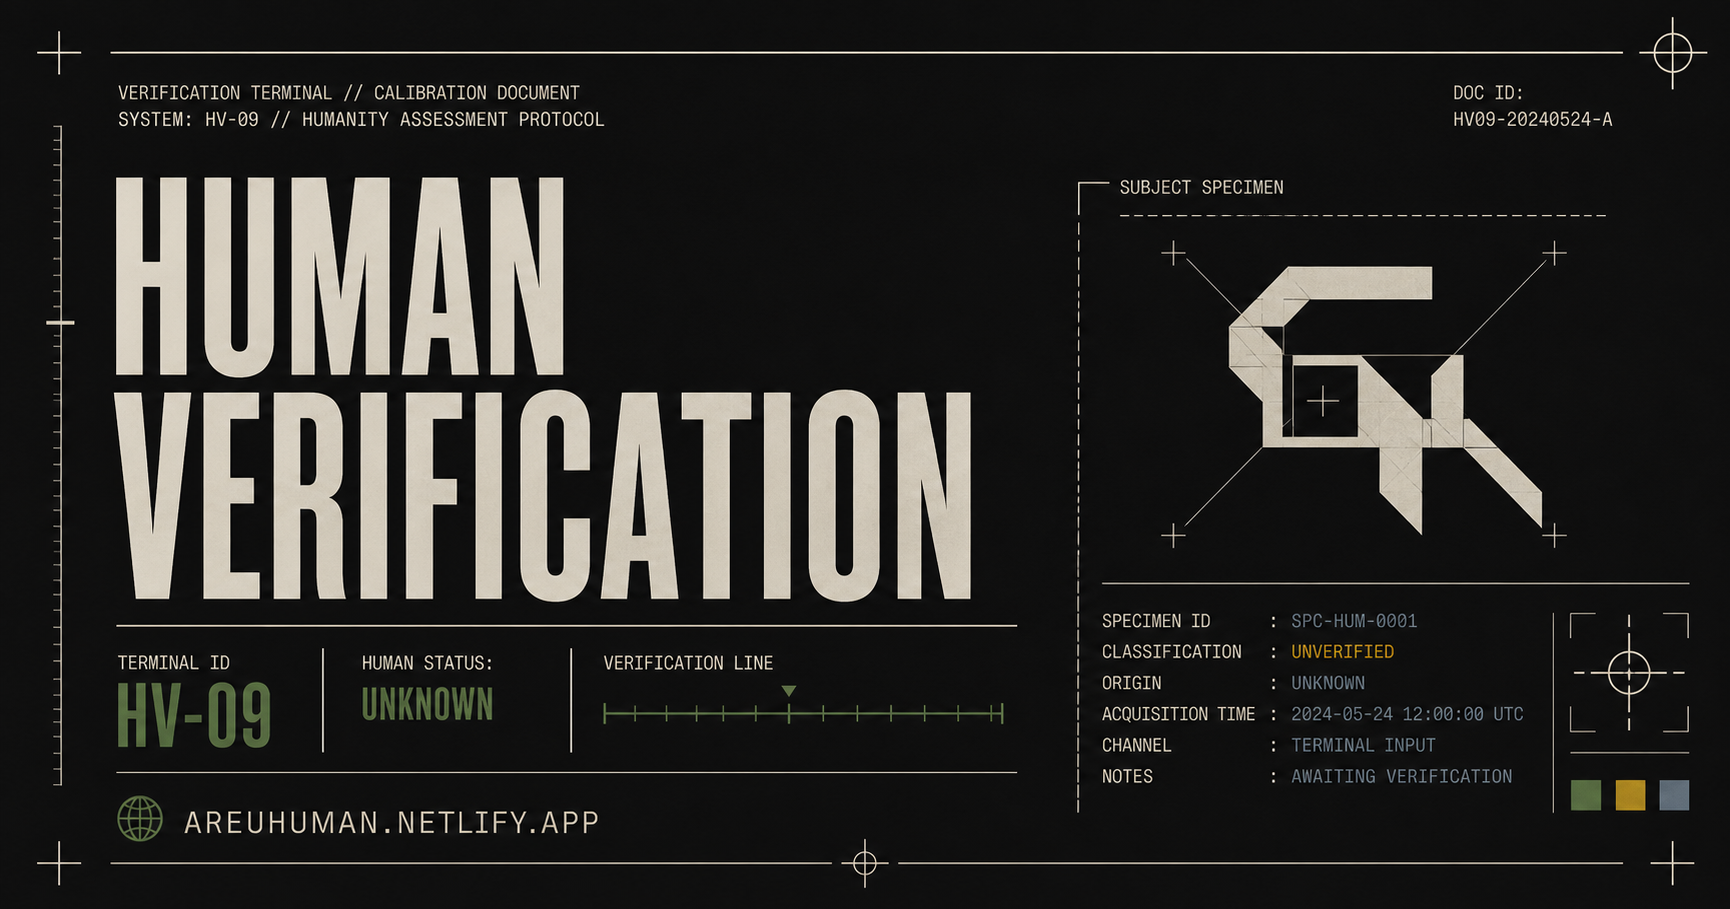
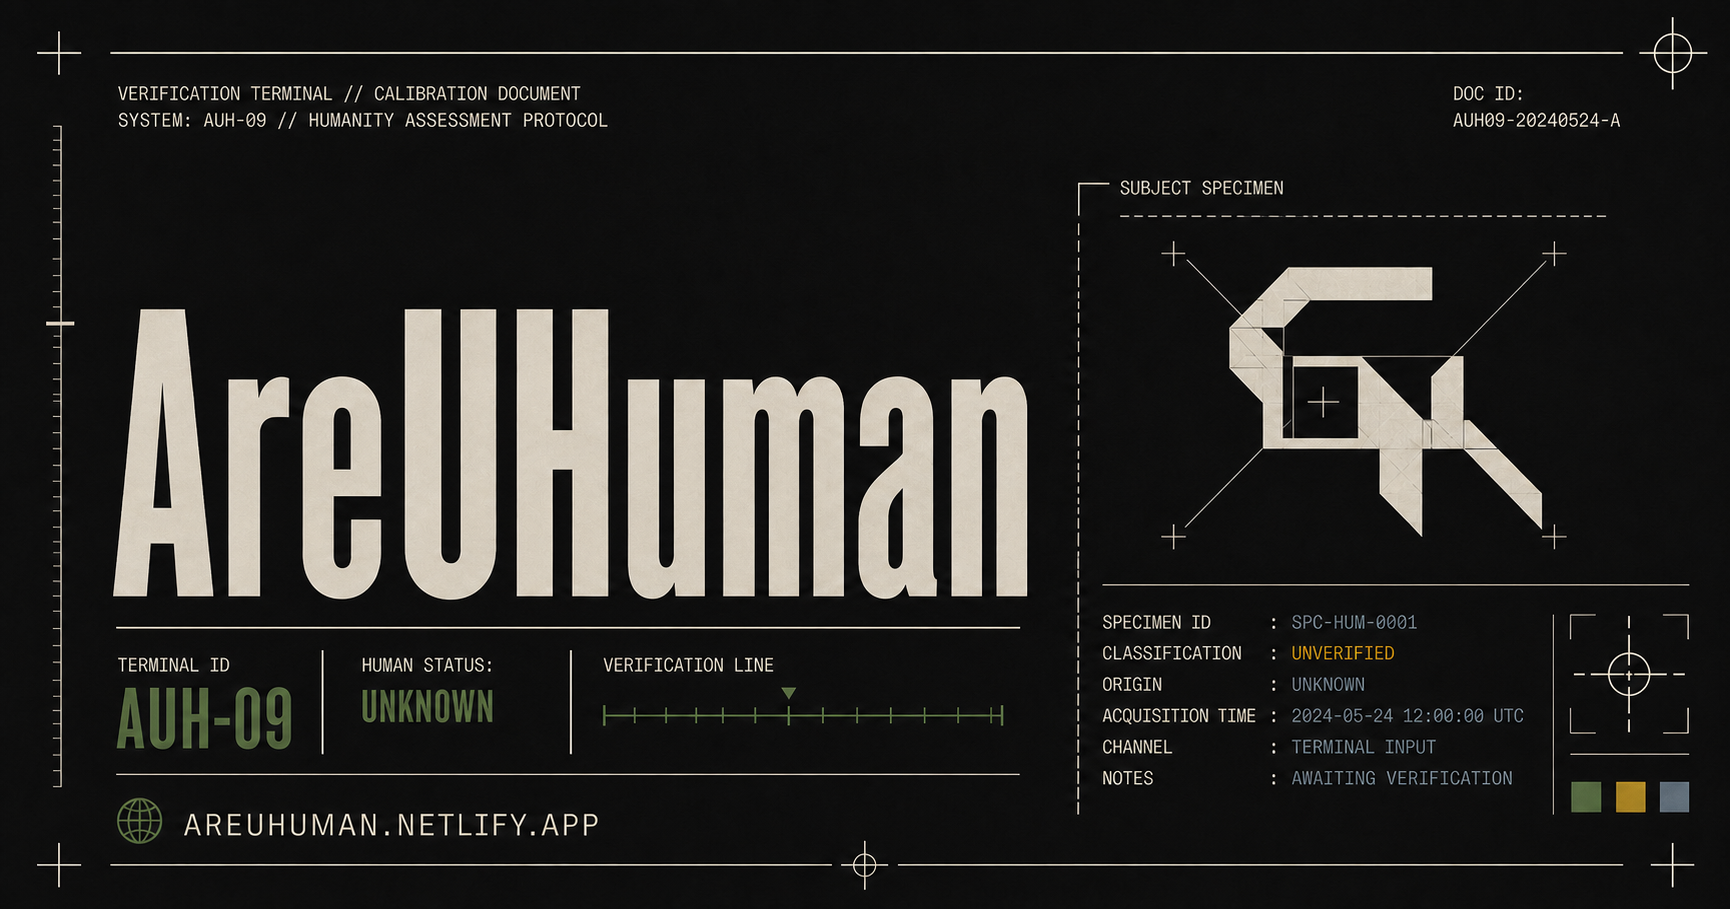
Rebrand game as AreUHuman

diff --git a/src/storage/store.ts b/src/storage/store.ts
@@ -1,7 +1,8 @@
 import { DEFAULT_SETTINGS } from '../game/config'
 import type { ChallengeMetrics, ChallengeResult, ChallengeStats, GameSettings, LeaderboardEntry, PersistedData, PrizeTier, ScoreBand, SessionPerformance } from '../game/types'
 
-const STORAGE_KEY = 'human-verification:data:v1'
+const STORAGE_KEY = 'are-u-human:data:v1'
+const PREVIOUS_STORAGE_KEY = 'human-verification:data:v1'
 const LEGACY_STORAGE_KEY = 'touch-test-99:data:v1'
 
 type UnknownRecord = Record<string, unknown>
@@ -64,7 +65,7 @@ export function normalizeSettings(value: unknown): GameSettings {
   const rawPin = typeof source.adminPin === 'string' || typeof source.adminPin === 'number' ? String(source.adminPin) : DEFAULT_SETTINGS.adminPin
   const adminPin = rawPin.replace(/\D/g, '').slice(0, 8) || DEFAULT_SETTINGS.adminPin
   return {
-    title: title === 'TOUCH TEST: 99%' ? DEFAULT_SETTINGS.title : title,
+    title: title === 'TOUCH TEST: 99%' || title === 'HUMAN VERIFICATION' ? DEFAULT_SETTINGS.title : title,
     tagline: stringValue(source.tagline, DEFAULT_SETTINGS.tagline, 80),
     smallCopy: stringValue(source.smallCopy, DEFAULT_SETTINGS.smallCopy, 80),
     gameEnabled: booleanValue(source.gameEnabled, DEFAULT_SETTINGS.gameEnabled),
@@ -113,7 +114,7 @@ export function createDefaultData(): PersistedData {
 
 export function loadData(): PersistedData {
   try {
-    const raw = localStorage.getItem(STORAGE_KEY) ?? localStorage.getItem(LEGACY_STORAGE_KEY)
+    const raw = localStorage.getItem(STORAGE_KEY) ?? localStorage.getItem(PREVIOUS_STORAGE_KEY) ?? localStorage.getItem(LEGACY_STORAGE_KEY)
     if (!raw) return createDefaultData()
     const parsed = JSON.parse(raw) as Partial<PersistedData>
     if (parsed.version !== 1) return createDefaultData()
@@ -132,6 +133,7 @@ export function loadData(): PersistedData {
 export function saveData(data: PersistedData): void {
   try {
     localStorage.setItem(STORAGE_KEY, JSON.stringify(data))
+    localStorage.removeItem(PREVIOUS_STORAGE_KEY)
     localStorage.removeItem(LEGACY_STORAGE_KEY)
   } catch {
     // A full storage quota must never interrupt a live carnival run.
@@ -198,6 +200,7 @@ export function resetSession(maxLives: number, seed = Date.now()): SessionPerfor
 
 export function clearStorage(): void {
   localStorage.removeItem(STORAGE_KEY)
+  localStorage.removeItem(PREVIOUS_STORAGE_KEY)
   localStorage.removeItem(LEGACY_STORAGE_KEY)
 }
 
@@ -214,4 +217,4 @@ function normalizeChallengeStats(value?: Partial<ChallengeStats>): ChallengeStat
   }
 }
 
-export { LEGACY_STORAGE_KEY, STORAGE_KEY }
+export { LEGACY_STORAGE_KEY, PREVIOUS_STORAGE_KEY, STORAGE_KEY }

diff --git a/src/tests/storage.test.ts b/src/tests/storage.test.ts
@@ -1,5 +1,5 @@
 import { describe, expect, it } from 'vitest'
-import { createDefaultData, LEGACY_STORAGE_KEY, loadData, recordChallenge, resetSession, saveData, sortLeaderboard, todayEntries } from '../storage/store'
+import { createDefaultData, LEGACY_STORAGE_KEY, loadData, PREVIOUS_STORAGE_KEY, recordChallenge, resetSession, saveData, sortLeaderboard, STORAGE_KEY, todayEntries } from '../storage/store'
 
 describe('versioned local persistence', () => {
   it('round-trips operator configuration', () => {
@@ -10,8 +10,8 @@ describe('versioned local persistence', () => {
   })
 
   it('recovers safely from malformed storage', () => {
-    localStorage.setItem('human-verification:data:v1', '{broken')
-    expect(loadData().settings.title).toBe('HUMAN VERIFICATION')
+    localStorage.setItem(STORAGE_KEY, '{broken')
+    expect(loadData().settings.title).toBe('AreUHuman')
   })
 
   it('migrates legacy scores and the former default title', () => {
@@ -19,7 +19,15 @@ describe('versioned local persistence', () => {
     legacy.settings.title = 'TOUCH TEST: 99%'
     legacy.totalPlays = 12
     localStorage.setItem(LEGACY_STORAGE_KEY, JSON.stringify(legacy))
-    expect(loadData()).toMatchObject({ totalPlays: 12, settings: { title: 'HUMAN VERIFICATION' } })
+    expect(loadData()).toMatchObject({ totalPlays: 12, settings: { title: 'AreUHuman' } })
+  })
+
+  it('migrates the previous product storage key and default title', () => {
+    const previous = createDefaultData()
+    previous.settings.title = 'HUMAN VERIFICATION'
+    previous.totalPlays = 7
+    localStorage.setItem(PREVIOUS_STORAGE_KEY, JSON.stringify(previous))
+    expect(loadData()).toMatchObject({ totalPlays: 7, settings: { title: 'AreUHuman' } })
   })
 
   it('sorts leaderboard scores with fair tie breakers', () => {

diff --git a/index.html b/index.html
@@ -4,21 +4,21 @@
     <meta charset="UTF-8" />
     <meta name="viewport" content="width=device-width, initial-scale=1, viewport-fit=cover" />
     <meta name="theme-color" content="#111210" />
-    <meta name="description" content="HUMAN VERIFICATION — a fair, escalating touchscreen skill test." />
+    <meta name="description" content="AreUHuman — a fair, escalating touchscreen skill test." />
     <meta property="og:type" content="website" />
     <meta property="og:url" content="https://areuhuman.netlify.app/" />
-    <meta property="og:title" content="HUMAN VERIFICATION" />
-    <meta property="og:description" content="Touchscreen response protocol HV-09. Human status unknown." />
+    <meta property="og:title" content="AreUHuman" />
+    <meta property="og:description" content="Touchscreen response protocol AUH-09. Human status unknown." />
     <meta property="og:image" content="https://areuhuman.netlify.app/og.png" />
     <meta property="og:image:width" content="1730" />
     <meta property="og:image:height" content="909" />
     <meta name="twitter:card" content="summary_large_image" />
-    <meta name="twitter:title" content="HUMAN VERIFICATION" />
-    <meta name="twitter:description" content="Touchscreen response protocol HV-09. Human status unknown." />
+    <meta name="twitter:title" content="AreUHuman" />
+    <meta name="twitter:description" content="Touchscreen response protocol AUH-09. Human status unknown." />
     <meta name="twitter:image" content="https://areuhuman.netlify.app/og.png" />
     <link rel="manifest" href="/manifest.webmanifest" />
     <link rel="icon" href="/icon.svg" type="image/svg+xml" />
-    <title>HUMAN VERIFICATION</title>
+    <title>AreUHuman</title>
   </head>
   <body>
     <div id="root"></div>

diff --git a/src/components/challenges/LogicChallenges.tsx b/src/components/challenges/LogicChallenges.tsx
@@ -63,7 +63,7 @@ export function LogicChallenges({ challenge, tier, seed, round, paused, onResult
   }
 
   if (challenge.kind === 'system-check') {
-    return <div className="system-check"><div className="system-check__top"><Pix mood="panic" /><span>TOUCH INPUT DRIVER</span><b>OFFLINE</b></div><p>RECOVERY CONSOLE // ERROR HV-09-R</p><h2>SIGNAL INTERRUPTED</h2><div><button onPointerDown={tap(() => onResult(failure('RECOVERY PATH INVALID', 'Reboot was a simulated decoy.')))}>REBOOT</button><button className="restore" onPointerDown={tap(() => onResult(success('SYSTEM RESTORED', 1, 'Verified recovery path', undefined, { completionTimeMs: elapsed })))}>RESTORE SIGNAL</button><button onPointerDown={tap(() => onResult(failure('RECOVERY PATH INVALID', 'Clearing logs does not restore input.')))}>CLEAR LOGS</button></div></div>
+    return <div className="system-check"><div className="system-check__top"><Pix mood="panic" /><span>TOUCH INPUT DRIVER</span><b>OFFLINE</b></div><p>RECOVERY CONSOLE // ERROR AUH-09-R</p><h2>SIGNAL INTERRUPTED</h2><div><button onPointerDown={tap(() => onResult(failure('RECOVERY PATH INVALID', 'Reboot was a simulated decoy.')))}>REBOOT</button><button className="restore" onPointerDown={tap(() => onResult(success('SYSTEM RESTORED', 1, 'Verified recovery path', undefined, { completionTimeMs: elapsed })))}>RESTORE SIGNAL</button><button onPointerDown={tap(() => onResult(failure('RECOVERY PATH INVALID', 'Clearing logs does not restore input.')))}>CLEAR LOGS</button></div></div>
   }
 
   return <div className="challenge-error">UNREGISTERED LOGIC TEST // {challenge.name}</div>

diff --git a/src/components/SetupScreen.tsx b/src/components/SetupScreen.tsx
@@ -10,7 +10,7 @@ export function SetupScreen({ settings, onComplete }: Props) {
   return (
     <TerminalFrame state="operator" className="setup-screen">
       <TerminalHeader status="COMMISSIONING REQUIRED" />
-      <section className="setup-intro"><Pix label /><span>FIRST RUN // AUTHORIZED OPERATOR</span><h1>HV-09 TERMINAL COMMISSIONING</h1><p>Confirm four local defaults. All values remain on this display and can be changed later through operator access.</p></section>
+      <section className="setup-intro"><Pix label /><span>FIRST RUN // AUTHORIZED OPERATOR</span><h1>AUH-09 TERMINAL COMMISSIONING</h1><p>Confirm four local defaults. All values remain on this display and can be changed later through operator access.</p></section>
       <section className="setup-form">
         <label><span>DISPLAY TITLE</span><input value={draft.title} maxLength={32} onChange={event => setDraft({ ...draft, title: event.target.value || settings.title })} /></label>
         <label className="switch-row"><span>INTAKE MODE<small>{draft.freePlay ? 'Verification available without operator credit' : 'An available attempt is required'}</small></span><button type="button" aria-pressed={draft.freePlay} className={draft.freePlay ? 'active' : ''} onClick={() => setDraft({ ...draft, freePlay: !draft.freePlay })}>{draft.freePlay ? 'FREE PLAY' : 'TOKEN CONTROL'}</button></label>

diff --git a/src/components/TouchDiagnostics.tsx b/src/components/TouchDiagnostics.tsx
@@ -364,10 +364,10 @@ export function TouchDiagnostics({ onClose }: TouchDiagnosticsProps) {
   }, [])
 
   return (
-    <section className="touch-diagnostics" aria-label="HV-09 touchscreen hardware diagnostics">
+    <section className="touch-diagnostics" aria-label="AUH-09 touchscreen hardware diagnostics">
       <header className="touch-diagnostics__header">
         <div>
-          <span className="touch-diagnostics__eyebrow">HUMAN VERIFICATION SYSTEM // HV-09</span>
+          <span className="touch-diagnostics__eyebrow">AreUHuman SYSTEM // AUH-09</span>
           <h1>TOUCH ARRAY DIAGNOSTIC</h1>
           <p>APPLICATION INPUT INSPECTION // NO OPERATING-SYSTEM CALIBRATION</p>
         </div>
@@ -473,7 +473,7 @@ export function TouchDiagnostics({ onClose }: TouchDiagnosticsProps) {
 
             {checkStatus === 'complete' && (
               <div className="touch-diagnostics__check-copy touch-diagnostics__check-copy--complete" role="status">
-                <span>HV-09 // INPUT REPORT</span>
+                <span>AUH-09 // INPUT REPORT</span>
                 <strong>TOUCH ARRAY VERIFIED</strong>
                 <p>Six application input checks registered through Pointer Events.</p>
                 <small>This confirms browser input only. It does not modify device calibration.</small>

diff --git a/src/components/ResultScreen.tsx b/src/components/ResultScreen.tsx
@@ -32,7 +32,7 @@ export function ResultScreen({ summary, timeoutSeconds, onReplay, onLeaderboard,
       <TerminalHeader subjectId={summary.subjectId} status={failed ? 'VERIFICATION FAILED' : 'REPORT COMPLETE'} humanity={summary.score} />
       {summary.isNewStandard && <div className="new-standard"><span>REFERENCE HUMAN UPDATED</span><b>{summary.score.toFixed(2)}%</b><small>NEW HUMAN STANDARD</small></div>}
       <section className="result-report">
-        <div className="result-report__title"><span>HUMAN VERIFICATION REPORT</span><VerificationStamp label={failed ? 'INVALID' : 'VERIFIED'} tone={failed ? 'failure' : 'verified'} /></div>
+        <div className="result-report__title"><span>AreUHuman REPORT</span><VerificationStamp label={failed ? 'INVALID' : 'VERIFIED'} tone={failed ? 'failure' : 'verified'} /></div>
         <div className="result-report__score"><HumanityDisplay value={summary.score} hero /><div><span>CLASSIFICATION</span><h1>{summary.category}</h1>{summary.rankToday && <p>TODAY'S RANK <b>#{summary.rankToday}</b></p>}</div></div>
         <div className="result-measurements">
           <MeasurementValue label="TESTS SURVIVED" value={String(summary.completed).padStart(2, '0')} />

diff --git a/src/stats/export.ts b/src/stats/export.ts
@@ -20,13 +20,13 @@ export function calculateStats(data: PersistedData) {
 }
 
 export function downloadJson(data: PersistedData) {
-  download(`human-verification-export-${new Date().toISOString().slice(0, 10)}.json`, JSON.stringify({ exportedAt: new Date().toISOString(), summary: calculateStats(data), data }, null, 2), 'application/json')
+  download(`are-u-human-export-${new Date().toISOString().slice(0, 10)}.json`, JSON.stringify({ exportedAt: new Date().toISOString(), summary: calculateStats(data), data }, null, 2), 'application/json')
 }
 
 export function downloadCsv(data: PersistedData) {
   const header = 'name,score,date,challenges,best_combo,precision,duration_ms'
   const rows = data.leaderboard.map(entry => [entry.name, entry.score, entry.createdAt, entry.challenges, entry.bestCombo, entry.precision, entry.durationMs].map(csvCell).join(','))
-  download(`human-verification-leaderboard-${new Date().toISOString().slice(0, 10)}.csv`, [header, ...rows].join('\n'), 'text/csv')
+  download(`are-u-human-leaderboard-${new Date().toISOString().slice(0, 10)}.csv`, [header, ...rows].join('\n'), 'text/csv')
 }
 
 function csvCell(value: string | number) {

diff --git a/src/components/AdminPanel.tsx b/src/components/AdminPanel.tsx
@@ -52,7 +52,7 @@ export function AdminPanel({ data, activeRules, lastTestSpec, lastTestResult, on
 
   return (
     <main className="admin-screen">
-      <aside className="admin-sidebar"><div><span>HV-09</span><b>OPERATOR</b></div>{tabs.map(item => <button key={item.id} className={tab === item.id ? 'active' : ''} onClick={() => setTab(item.id)}>{item.label}</button>)}<button className="admin-close" onClick={onClose}>EXIT OPERATOR MODE</button></aside>
+      <aside className="admin-sidebar"><div><span>AUH-09</span><b>OPERATOR</b></div>{tabs.map(item => <button key={item.id} className={tab === item.id ? 'active' : ''} onClick={() => setTab(item.id)}>{item.label}</button>)}<button className="admin-close" onClick={onClose}>EXIT OPERATOR MODE</button></aside>
       <section className="admin-content">
         <header><div><span>LOCAL TERMINAL CONTROL</span><h1>{tabs.find(item => item.id === tab)?.label}</h1></div><b>CHANGES COMMIT AUTOMATICALLY</b></header>
 

diff --git a/src/App.tsx b/src/App.tsx
@@ -287,7 +287,7 @@ export default function App() {
 
   return (
     <div className="app-shell" onPointerDownCapture={unlockAudio}>
-      <div className="rotate-notice"><span>HV-09</span><h1>DISPLAY ORIENTATION INVALID</h1><p>Rotate the device 90 degrees to continue verification.</p></div>
+      <div className="rotate-notice"><span>AUH-09</span><h1>DISPLAY ORIENTATION INVALID</h1><p>Rotate the device 90 degrees to continue verification.</p></div>
       {view === 'boot' && <BootScreen onComplete={() => setView('attract')} />}
       {view === 'attract' && <AttractScreen settings={settings} leaderboard={data.leaderboard} averageDurationMs={averageDuration} onStart={beginGame} onLeaderboard={() => setView('leaderboard')} onAdmin={() => setView('pin')} onFullscreen={fullscreen} />}
       {view === 'ready' && session && subjectId && <ReadyScreen lives={session.maxLives} subjectId={subjectId} onComplete={() => setView('playing')} />}

diff --git a/src/components/challenges/ChallengeArena.tsx b/src/components/challenges/ChallengeArena.tsx
@@ -179,7 +179,7 @@ export function ChallengeArena({ challenge, tier, seed, round, session, subjectI
       onLostPointerCaptureCapture={onPointerEndCapture}
       onContextMenu={event => event.preventDefault()}
     >
-      <div className="challenge-system-line"><span>HUMAN VERIFICATION // HV-09</span><b>{subjectId}</b><em>{phaseMessage(phase)}</em></div>
+      <div className="challenge-system-line"><span>AreUHuman // AUH-09</span><b>{subjectId}</b><em>{phaseMessage(phase)}</em></div>
       <div className="challenge-progress" data-tone={timerTone} aria-label={`${(remaining / 1000).toFixed(1)} seconds remaining`}><span style={{ transform: `scaleX(${remaining / (challenge.timeLimit * 1000)})` }} /><b>{(remaining / 1000).toFixed(1)}s</b></div>
       <header className="challenge-heading">
         <TestIdentifier category={challenge.category} number={round + 1} variant={challenge.variant} />

diff --git a/src/components/terminal/TerminalPrimitives.tsx b/src/components/terminal/TerminalPrimitives.tsx
@@ -11,7 +11,7 @@ export function TerminalFrame({ state, phase = 'standard', children, className =
 export function TerminalHeader({ subjectId, status, humanity, testNumber, compact = false }: { subjectId?: string; status: string; humanity?: number; testNumber?: number; compact?: boolean }) {
   return (
     <header className={`terminal-header ${compact ? 'terminal-header--compact' : ''}`}>
-      <div className="terminal-header__system"><span>HUMAN VERIFICATION SYSTEM</span><b>HV-09</b></div>
+      <div className="terminal-header__system"><span>AreUHuman SYSTEM</span><b>AUH-09</b></div>
       <div className="terminal-header__status"><span>STATUS</span><b>{status}</b></div>
       {subjectId && <SubjectIdentifier value={subjectId} />}
       {testNumber !== undefined && <div className="terminal-header__test"><span>TEST</span><b>{String(testNumber).padStart(2, '0')} / 32</b></div>}
